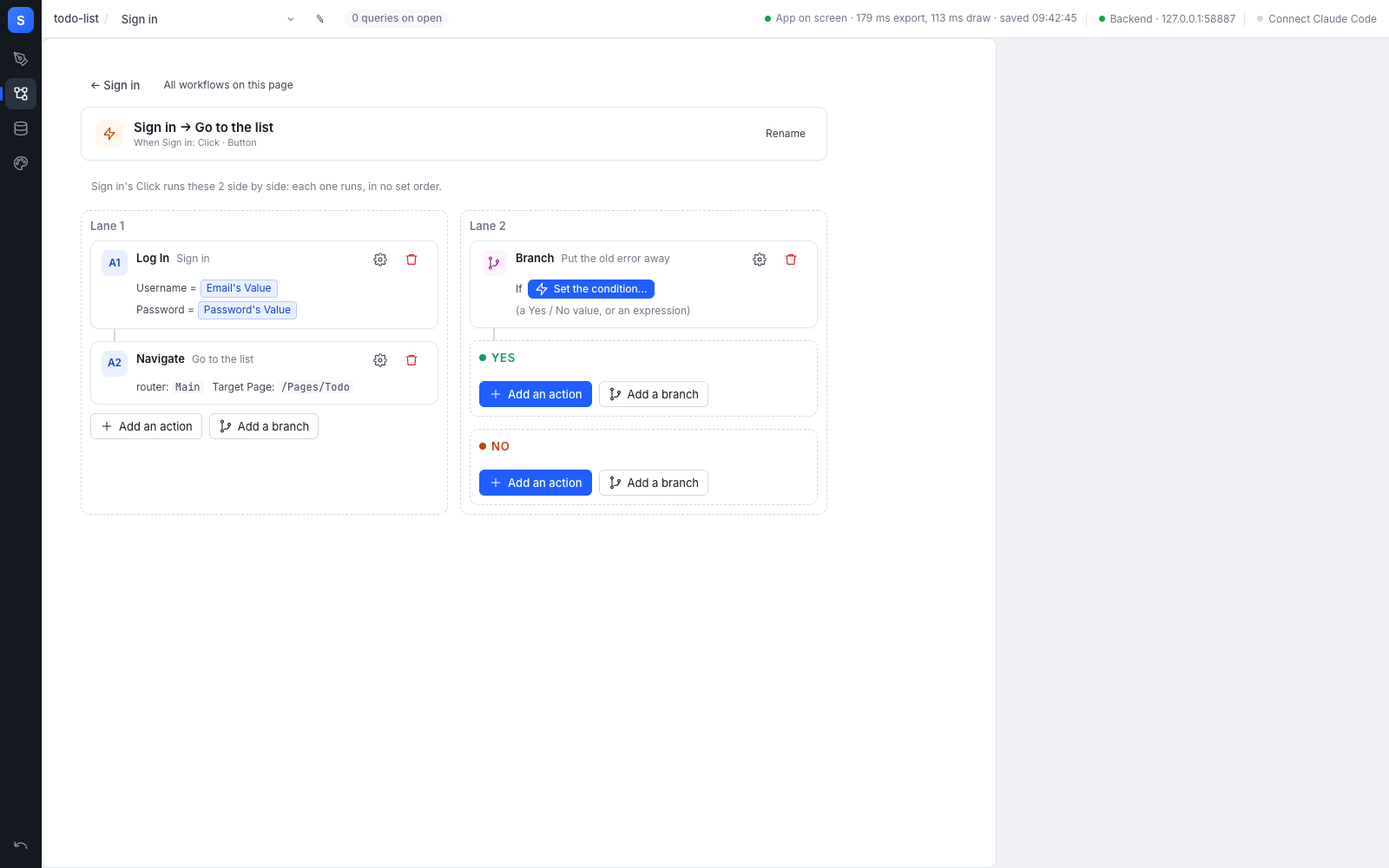
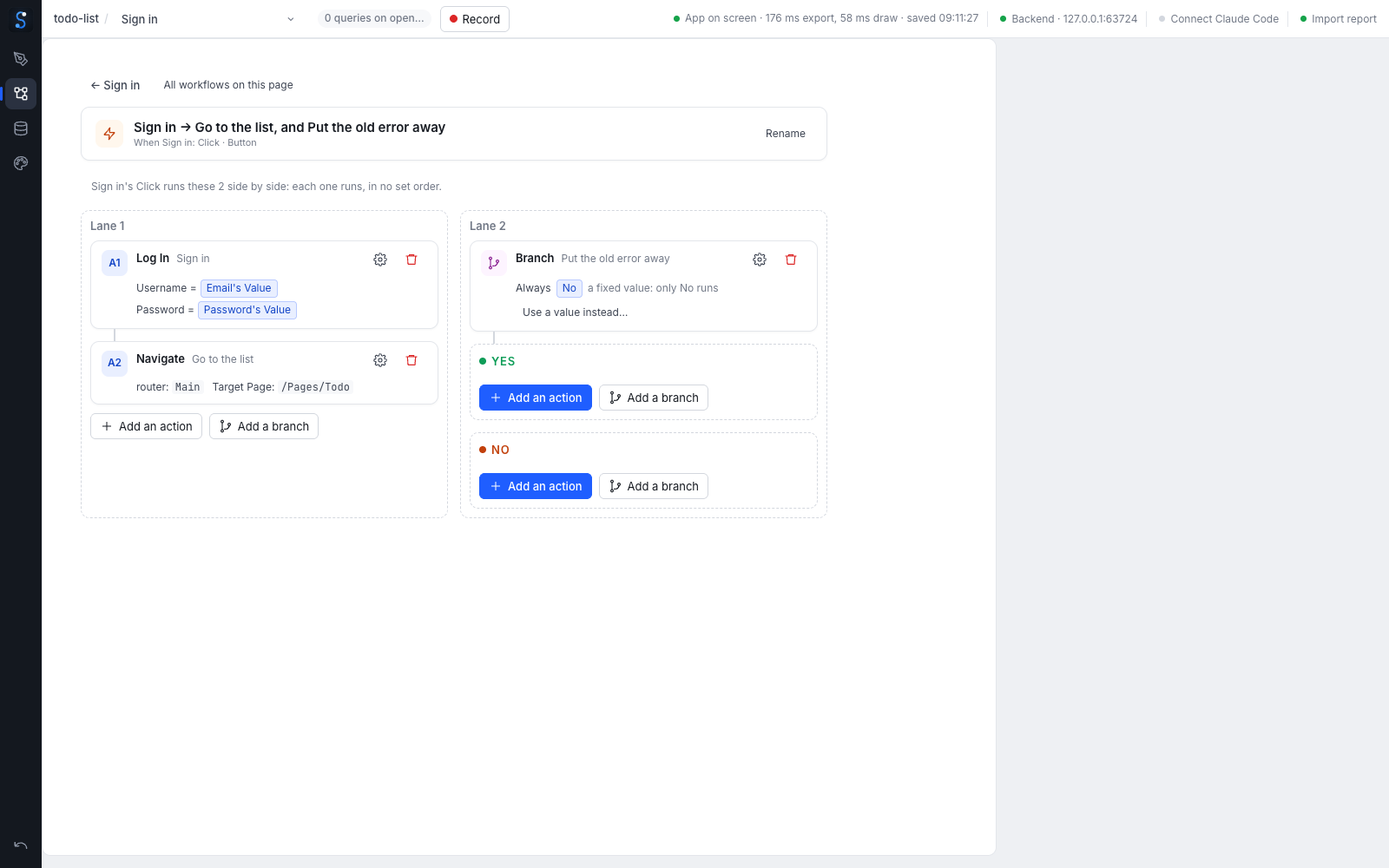
s18: Publish says a page's own address needs the host's index.html fallback; a card reads every lane; Required is drift
- Publish (STU-008): a path-routed app (every template, every import) is told that a link to a page or a reload on one
  needs the host to answer unknown addresses with index.html; measured both ways in check:publish
- Workflow cards (STU-022-024): name and hover read every lane; a Condition fixed at Yes / No says so instead of
  "Set the condition..."; a component port without words is spelled out ("Pick list"); a branch label is a test only
  when it asks ("Signed in?")
- Data (M6): a Required the project and the development database disagree on is a drift card, both ways to agree

Gates 2026-10-23: editor 172/172 (mutant 168/172), data 78/78, app 46/46, publish 34/34, timeline 43/43,
pagedata 33/33, reusable 12/12, rules 20/20, vendor PASS.

diff --git a/editor/studio.html b/editor/studio.html
@@ -395,6 +395,7 @@
   .bolt.oncanvas { position: absolute; pointer-events: auto; z-index: 2; box-shadow: 0 1px 2px rgba(0,0,0,.18); }
   .bolttip { position: fixed; z-index: 1000; max-width: 420px; background: var(--ink); color: var(--panel); font-size: 12px; line-height: 1.45; padding: 6px 9px; border-radius: var(--r); box-shadow: 0 4px 14px rgba(0,0,0,.2); pointer-events: none; }
   .bolttip b { font-weight: 600; margin-right: 6px; }
+  .bolttip .tiplane { padding-left: 10px; }
   #workflow.card { grid-template-columns: 1fr; }
   #workflow.card > aside { display: none; }
   .cardnav { display: flex; align-items: center; gap: 8px; margin-bottom: 10px; }
@@ -1341,8 +1342,9 @@ function portsOf(node, plug) {
       const comp = store.readComponent(key).files;
       const ioType = plug === 'input' ? 'Component Inputs' : 'Component Outputs';
       // an input with no name of its own reads as what it feeds inside ("Why it did not work" · Text), not its port name cut off
+      // any other port with no name of its own is its port name spelled out ("When Pick list", not "When pickList")
       const inner = (ioId, port) => { if (plug !== 'input') return null; const w = comp.connections.connections.filter((c) => c.fromId === ioId && c.fromProperty === port); const t = w.length === 1 && comp.nodes.nodes.find((x) => x.id === w[0].toId); const tp = t && libPorts(t.type).find((q) => q.name === w[0].toProperty); return tp ? { of: t.label || typeName(t.type), label: tp.displayName || tp.name, type: tp.type } : null; };
-      for (const n of comp.nodes.nodes) if (n.type === ioType) for (const p of n.ports || []) if (!seen.has(p.name)) { const i = p.displayName ? null : inner(n.id, p.name); seen.set(p.name, { name: p.name, label: p.displayName || i?.label || p.name, type: tname(i?.type ?? p.type), raw: i ? { type: i.type } : undefined, signal: tname(p.type) === 'signal', group: 'Component', of: i?.of }); }
+      for (const n of comp.nodes.nodes) if (n.type === ioType) for (const p of n.ports || []) if (!seen.has(p.name)) { const i = p.displayName ? null : inner(n.id, p.name); seen.set(p.name, { name: p.name, label: p.displayName || i?.label || portWords(p.name), type: tname(i?.type ?? p.type), raw: i ? { type: i.type } : undefined, signal: tname(p.type) === 'signal', group: 'Component', of: i?.of }); }
     } catch { /* unknown component */ }
   }
   for (const p of libPorts(node.type)) if (p.plug === plug || p.plug === 'input/output') if (!seen.has(p.name)) seen.set(p.name, { name: p.name, label: p.displayName && p.displayName !== p.name ? p.displayName : portWords(p.name), type: tname(p.type), signal: tname(p.type) === 'signal', raw: p });
@@ -3144,7 +3146,9 @@ function stepWords(s, short = false) {
   if (s.refresh) return `Refresh ${itemById(s.id)?.name ?? labelOf(s.id)}`;
   if (s.branches) {
     const side = (list) => list.map((x) => stepWords(x)).join(' → ') || 'nothing';
-    const test = node.label ? `If ${node.label.replace(/\?$/, '')}` : 'Branch';
+    // a label that asks ("Signed in?") is the test; any other ("Only when …", "Put the old error away") is the branch's own name
+    const fixed = typeof p.condition === 'boolean' && !conns.some((c) => c.toId === s.id && c.toProperty === 'condition');
+    const test = node.label ? (/\?$/.test(node.label) ? `If ${node.label.replace(/\?$/, '')}` : node.label) : fixed ? `Always ${p.condition ? 'Yes' : 'No'}` : 'Branch';
     return short ? test : `${test}: Yes → ${side(s.branches.yes)}; No → ${side(s.branches.no)}`;
   }
   const more = !short && s.siblings.length ? ` (+${s.siblings.length} more)` : '';
@@ -3155,14 +3159,18 @@ function stepWords(s, short = false) {
   if (words && p.collectionName) return `${words} (${p.collectionName})${more}`;
   return (words || typeName(node.type)) + more;
 }
-const eventSummary = (ev) => chain(ev.node, ev.port).map((s) => stepWords(s)).join(' → ');
+/** The card's steps in words, one line per lane: a card that runs lanes side by side (STU-024) is all of them, not its first. */
+const laneSummaries = (ev) => (lanesOf(ev) ?? [chain(ev.node, ev.port)]).map((steps) => steps.map((s) => stepWords(s)).join(' → '));
+const eventSummary = (ev) => { const l = laneSummaries(ev); return l.length > 1 ? l.map((w, i) => `Lane ${i + 1}: ${w}`).join(' · ') : l[0]; };
 /* ---- STU-023: a card is named by what it does, from its steps, until someone names it. The name is kept on the element
    the event starts at (metadata.cardNames, by port), so it follows the element and comes back with Undo; nothing else reads it ---- */
 const givenName = (ev) => byId[ev.node]?.metadata?.cardNames?.[ev.port] || '';
 function stepsName(ev) {
-  const words = chain(ev.node, ev.port).map((s) => stepWords(s, true));
-  if (!words.length) return 'No steps yet';
-  return (words.length > 3 ? [words[0], words[1], '…', words.at(-1)] : words).join(' → ');
+  const lanes = (lanesOf(ev) ?? [chain(ev.node, ev.port)]).map((steps) => steps.map((s) => stepWords(s, true))).filter((w) => w.length);
+  if (!lanes.length) return 'No steps yet';
+  const one = (words) => (words.length > 3 ? [words[0], words[1], '…', words.at(-1)] : words).join(' → ');
+  if (lanes.length === 1) return one(lanes[0]);
+  return lanes.length === 2 ? `${one(lanes[0])}, and ${one(lanes[1])}` : `${one(lanes[0])}, and ${lanes.length - 1} more side by side`;
 }
 const cardName = (ev) => givenName(ev) || stepsName(ev);
 /** An empty name gives the card back to its steps. */
@@ -3184,9 +3192,10 @@ function cardTitle(ev) {
   return input;
 }
 function hideBoltTip() { document.getElementById('bolttip')?.remove(); }
+const laneLines = (ev) => { const l = laneSummaries(ev); return l.length > 1 ? l.map((w, i) => h('div', { class: 'tiplane' }, `Lane ${i + 1}: ${w}`)) : [l[0]]; };
 function showBoltTip(anchor, evs) {
   hideBoltTip();
-  const tip = h('div', { class: 'bolttip', id: 'bolttip', role: 'tooltip' }, ...evs.map((ev) => h('div', {}, h('b', {}, portLabel(byId[ev.node], 'output', ev.port)), givenName(ev) ? `${givenName(ev)}: ` : '', eventSummary(ev))));
+  const tip = h('div', { class: 'bolttip', id: 'bolttip', role: 'tooltip' }, ...evs.map((ev) => h('div', {}, h('b', {}, portLabel(byId[ev.node], 'output', ev.port)), givenName(ev) ? `${givenName(ev)}: ` : '', ...laneLines(ev))));
   document.body.append(tip);
   const r = anchor.getBoundingClientRect();
   tip.style.left = `${Math.max(8, Math.min(r.left, innerWidth - tip.offsetWidth - 8))}px`;
@@ -3429,9 +3438,12 @@ function stepCard(s, n) {
   if (isCond) {
     const cw = wiredIn.condition; const src = cw && byId[cw.fromId];
     const pCond = { name: 'condition', displayName: 'Condition' };
-    const line = h('div', { class: 'cond-line' }, 'If ');
+    const fixed = !src && typeof params.condition === 'boolean';
+    const line = h('div', { class: 'cond-line' }, fixed ? 'Always ' : 'If ');
     if (src && isComposed(src)) line.append(h('span', { class: 'chip expr', style: 'cursor:pointer', onclick: (e) => openComposer(e, node, pCond, src) }, icon('fx'), composedPreview(src)), h('button', { class: 'quiet tiny', onclick: (e) => openComposer(e, node, pCond, src) }, 'Edit'));
     else if (src) line.append(sourceChip(cw.fromId, cw.fromProperty), h('button', { class: 'quiet tiny', onclick: () => edits(pageKey, [{ edit: 'disconnect', component: pageKey, from: { node: cw.fromId, port: cw.fromProperty }, to: { node: node.id, port: 'condition' } }]) }, icon('x')));
+    // a condition saved as a fixed Yes or No (the todo app's "Put the old error away" is a constant false, read for its value): said, not offered as empty
+    else if (fixed) line.append(h('span', { class: 'chip' }, params.condition ? 'Yes' : 'No'), h('span', { style: 'color:var(--muted)' }, `a fixed value: only ${params.condition ? 'Yes' : 'No'} runs`), h('button', { class: 'quiet tiny', onclick: (e) => sourceMenu(e, node, pCond) }, 'Use a value instead…'));
     else line.append(h('button', { class: 'primary tiny', onclick: (e) => sourceMenu(e, node, pCond) }, icon('bolt'), 'Set the condition…'), h('span', { style: 'color:var(--muted)' }, '(a Yes / No value, or an expression)'));
     card.append(line);
   } else card.append(h('div', { class: 'lines' }, ...(lines.length ? lines : [h('span', { style: 'color:var(--muted)' }, 'No settings yet')]), s.siblings.length ? h('span', { style: 'color:var(--muted)' }, `+ ${s.siblings.length} more wired from the same signal`) : null));
@@ -3683,6 +3695,18 @@ function syncCards(main, t) {
   for (const r of d.retyped) card(`${r.name} is ${r.project.type}${r.project.targetClass ? ` → ${r.project.targetClass}` : ''} in the project and ${r.backend.type}${r.backend.targetClass ? ` → ${r.backend.targetClass}` : ''} on the development database.`,
     h('button', { onclick: async () => { if (!confirm(`Change ${r.name} on the development database to ${r.project.type}? Values that don’t convert are lost.`)) return; await onBackend(`${r.name} was not changed`, () => schemaAct({ action: 'changeColumnType', table: t.name, column: r.name, type: r.project.type })); renderData(); } }, `Make the backend’s ${r.project.type}`),
     h('button', { onclick: () => { editProject((list) => { const cols = list.find((x) => x.name === t.name).columns; cols[cols.findIndex((x) => x.name === r.name)] = projectColumn(r.backend); }); renderData(); } }, `Make the project’s ${r.backend.type}`));
+  // Required, which the backend's own diff never compares: made required on the backend only when no row is without a value
+  const word = (on) => (on ? 'required' : 'optional');
+  for (const r of d.required) card(`${r.name} is ${word(r.project)} in the project and ${word(r.backend)} on the development database.`,
+    h('button', { 'data-act': 'required-backend', onclick: async (e) => {
+      if (r.project) {
+        const empty = await emptyCount(t.name, r.name);
+        if (empty) return e.target.closest('.card').querySelector('p').replaceChildren(`${F.recordsWord(empty)} on the development database ${empty === 1 ? 'has' : 'have'} nothing in ${r.name}, so it can’t be made required there yet. Give each one a value first, or make the project’s optional. `,
+          h('button', { class: 'quiet tiny', 'data-act': 'show-empty', onclick: () => { env = 'development'; dataSub = 'app'; Object.assign(app, { type: t.name, skip: 0, q: '', order: '-createdAt', picked: new Set(), missing: r.name }); renderData(); } }, 'Show them in App data'));
+      }
+      await onBackend(`${r.name} was not made ${word(r.project)}`, () => schemaAct({ action: 'setRequired', table: t.name, columns: { [r.name]: r.project } })); renderData();
+    } }, `Make it ${word(r.project)} on the backend`),
+    h('button', { 'data-act': 'required-project', onclick: () => { editProject((list) => { const c = list.find((x) => x.name === t.name).columns.find((x) => x.name === r.name); if (r.backend) c.required = true; else delete c.required; }); renderData(); } }, `Make the project’s ${word(r.backend)}`));
 }
 async function whoCanReach(card, type) {
   const say = (...kids) => { card.lastChild.replaceWith(h('div', {}, ...kids)); };

diff --git a/docs/SCOPE.md b/docs/SCOPE.md
@@ -32,7 +32,7 @@ app is yours, it sits in git, and Claude Code can work on it alongside you throu
 |---|---|---|
 | Design tab — palette, element tree, click / drag-reorder / resize on the real app, property editor, red spacing guide | works | `check:editor` |
 | Workflow tab — events, steps as the signal chain, add / delete a step, a Yes/No branch, the expression composer (chips, JavaScript, or both) | works | `check:editor` |
-| Data tab (M6) — Data types in NodeGX's words on the running backend and the project together, drift named with both ways to agree; Privacy through the backend map; App data paged, searched, edited by kind, exported and imported; option sets; the Map; a development and a live database, Deploy to live, Copy rows; a field or a type renamed with what reads it in the app, and on live as a rename; Required on a stored field, on development and live; the people with an account (`_User`) in App data | works (2026-10-22, s15; STU-062 s16; Required and User s17) | `check:data` 74/74, `check:editor` 170/170 |
+| Data tab (M6) — Data types in NodeGX's words on the running backend and the project together, drift named with both ways to agree (a type, a field, a Required); Privacy through the backend map; App data paged, searched, edited by kind, exported and imported; option sets; the Map; a development and a live database, Deploy to live, Copy rows; a field or a type renamed with what reads it in the app, and on live as a rename; Required on a stored field, on development and live; the people with an account (`_User`) in App data | works (2026-10-22, s15; STU-062 s16; Required and User s17; Required as drift s18) | `check:data` 78/78, `check:editor` 172/172 |
 | Live with outside edits — a file changed by Claude Code (MCP), VS Code or `git pull` is drawn without a reload; a clash with Studio's own edit asks | works (2026-10-19) | `check:editor` 46/46 |
 | Styles — global styles as NodeGX variants | works | `check:editor` |
 | Bubble importer — pages, elements, styles, workflows, expressions, option sets, reusables, custom states, data types, privacy rules → `nodegx.security.json`, backend workflows → cloud functions, Data-tab rows | spike, measured on a real 17-page app (0 validation errors); its searches arrive as page data (STU-013), a reusable's while that copy is shown (STU-014); its workflow conditions test only when the workflow runs (STU-013-NAVLOOP) | `check:import` 50/50 |
@@ -40,10 +40,10 @@ app is yours, it sits in git, and Claude Code can work on it alongside you throu
 | Desktop app — Electron window, a welcome screen (recent projects, NodeGX's templates, Import an app), File → Open Recent, a smoke mode; packaged for macOS as a DMG and a zip, signed ad hoc (STU-007's first cut) | first cut (2026-10-19), package (2026-10-20, s14) | `check:app` 39/39, 40/40 on the package, `smoke` |
 | The project's backend — started (or adopted) on open, stopped on close, shown in the status bar; a template that needs one gets one; Data's "Start a backend" for an app with none | works (2026-10-19) | `check:app` 34/34 |
 | Claude Code — "Connect Claude Code" in the header (and File) registers the NodeGX MCP server for the folder with the NodeGX editor's own writer and shows the command that starts a session there | works (2026-10-19) | `check:editor` 56/56 |
-| Publish — File → Publish… and the header's Publish write the app as a static site with NodeGX's own deploy (npm's production engine), into a new folder or the one this app went to last; its cloud functions go to its backend through NodeGX's `deploy_cloud_functions`; the window says where the site is, what it talks to, and that a backend on 127.0.0.1 works on this computer only | works (2026-10-20, s14) | `check:publish` 27/27, `check:app` 39/39 |
+| Publish — File → Publish… and the header's Publish write the app as a static site with NodeGX's own deploy (npm's production engine), into a new folder or the one this app went to last; its cloud functions go to its backend through NodeGX's `deploy_cloud_functions`; the window says where the site is, what it talks to, and that a backend on 127.0.0.1 works on this computer only, and that a page's own address needs the host's `index.html` fallback (s18) | works (2026-10-20, s14) | `check:publish` 34/34, `check:app` 46/46 |
 | Runs without a NodeGX checkout — the kit from npm at pinned versions (`@nodegx/preview` 0.2.3, `@nodegx/mcp` 0.2.2) and `vendor/` at one NodeGX commit; `NODEGX_REPO` for working on the kit and Studio together | works (2026-10-20, s13) | `check:vendor`, every gate on the vendored kit |
 | Page data — a search is a named item on the page (Design → Page data), read by any element as dynamic data; made or reused through one form, never twice; readers, last run and "N queries on open" counted off the app's own requests; a workflow refreshes an item | works (2026-10-19), R7 ruled | `check:pagedata` 26/26, `check:editor` 71/71 |
-| Workflows on their element (M3) — a ⚡ on every element with a workflow, on the canvas and in the element list; its steps in order on hover; its card full screen from the badge, Back (or Esc) to the element; a card named by its steps until someone renames it; the page's cards under their elements, filtered by what they change or what starts them, searched over their steps; one card per event — imported A / not A splits are one branch, overlapping ones lanes side by side | STU-020, STU-021 (2026-10-19, s8), STU-023, STU-022, STU-024 (2026-10-20, s9) work | `check:editor` 170/170, `check:import` 79/79 |
+| Workflows on their element (M3) — a ⚡ on every element with a workflow, on the canvas and in the element list; its steps in order on hover; its card full screen from the badge, Back (or Esc) to the element; a card named by its steps until someone renames it; the page's cards under their elements, filtered by what they change or what starts them, searched over their steps; one card per event — imported A / not A splits are one branch, overlapping ones lanes side by side | STU-020, STU-021 (2026-10-19, s8), STU-023, STU-022, STU-024 (2026-10-20, s9) work | `check:editor` 172/172, `check:import` 79/79 |
 
 ## The alpha (0.2) — the line
 
@@ -577,9 +577,18 @@ in `app/main.cjs`, and `lib/publish.mjs` does the work:
   deployed, a second publish finds all four `unchanged`, and one called over HTTP answers from its own Request node
   (*Unauthenticated requests not accepted*, 500) where an unknown name gets 404. `check:app` 39/39 clicks Publish in
   the real window (with its dialogs answered by the gate) and reads the site, the warning, and the remembered folder.
-- **Not in it:** a site under a sub-path (P123-STU015-BASEURL); a path-routed app's deep link needs the server to
-  answer every path with `index.html` (opening its root works on any server, which is all the gate's server does; most static hosts have a
-  setting for the fallback, and Publish does not say so yet); hosting anywhere but this machine (R10); Windows and Linux not run.
+- **Not in it:** a site under a sub-path (P123-STU015-BASEURL); ~~Publish saying that a path-routed app's deep link
+  needs the host's `index.html` fallback~~ (s18, below); hosting anywhere but this machine (R10); Windows and Linux not run.
+- **s18 (2026-10-23): a page's own address.** `settings.navigationPathType` is `"path"` in every NodeGX template and in
+  every app the importer writes, so a page has an address of its own (`/sign-in`), which reaches the server; unset or
+  `"hash"` keeps it after a `#`, which never does. For a path-routed app the publish window now says: *"Its pages have
+  addresses of their own (such as /sign-in). Opening the site’s first address works on any web server; for a link to a
+  page, or a reload on one, the server must answer every address it has no file for with index.html. Most hosts have a
+  setting for that (often called a single-page app’s fallback or rewrite)."* (`routingOf` in `lib/publish.mjs`; the
+  example is the first Page with a `urlPath`). The deploy's `index.html` loads its scripts from `%baseUrl%`, the root,
+  so the fallback is all a deep link needs. Measured, `check:publish` **34/34**: the plain static server answers
+  `/sign-in` with 404; one that answers other addresses with `index.html` opens the sign-in page there; a project
+  without the setting reads as hash. `check:app` **46/46** reads the line in the real window's report.
 
 Order: STU-002 first (it is what makes "local" feel alive, and STU-005 depends on it), then STU-003–005, then
 STU-006–007 when someone outside the team needs to run it, and STU-008 so that what they build can leave the machine.
@@ -919,7 +928,8 @@ elements in the order the element list draws them (logic after), each card by it
   Command, so "Changes Task" reads Add task → Write history → its writes. This over-counts on purpose: a write
   inside the component counts whichever of its inputs the card fires.
 - **Not read:** a write made in JavaScript (a Function node's own `fetch`) changes nothing as far as the filter
-  knows. Port names a component gives without words show as they are ("When pickList").
+  knows. ~~Port names a component gives without words show as they are ("When pickList")~~: spelled out since s18
+  ("When Pick list"), the words the node library's own ports already got (`portWords`).
 
 Gate (`check:editor`, on the todo template's Todo page, 62 cards): "Changes Task" lists exactly the 15 cards whose
 signal reaches a Task write, and "Changes todoSelected" exactly the 11 that set it, both read off the files and
@@ -943,11 +953,20 @@ event, from both ends:
   A1, A2 … B1; where the step said "+ 1 more wired from the same signal" the second lane was hidden. The todo
   template's Sign in click is such a card: Log In → Go to the list, and beside it the branch that puts the old
   error away. A branch shows its own name when it has one. Inside a lane, Yes and No stack.
-- **Not built:** a card's name and hover still read the first lane ("Sign in (+1 more) → Go to the list"). R4
+- ~~A card's name and hover still read the first lane~~ (s18): named from every lane (*"Sign in → Go to the list, and
+  Put the old error away"*; three or more: the first, "and 2 more side by side"), and the hover says each lane on a
+  line of its own ("Lane 1: …", "Lane 2: …", as the card heads them). A branch's label reads as its test only when it
+  asks ("Signed in?" → "If Signed in"); any other is its name as written, so the importer's "Only when …" no longer
+  reads "If Only when …", and a branch with no label fixed at Yes or No reads "Always No". **Not built:** R4
   (rejoin, STU-025) is untouched. More than two opposite-looking workflows: the first opposite pair merges, the
   rest stay lanes.
-- **Seen, not fixed:** "Put the old error away" is a Condition whose condition is the constant `false`, used only
-  for its value; the branch card says "Set the condition…" as though it were empty.
+- ~~Seen, not fixed: a constant-`false` Condition's card says "Set the condition…"~~ (s18): a Condition saved as a
+  fixed Yes or No with nothing wired reads *"Always No — a fixed value: only No runs"*, with *Use a value instead…*.
+
+Gate (s18, `check:editor` **172/172**, 2 new and 2 rewritten): the Sign in ⚡'s hover reads both lanes in the order the
+card draws them, with no "+1 more"; the card's name is both lanes'; the second lane's branch (the file's `condition:
+false`, nothing wired into it) reads "Always No"; Todo's Header row reads "Pick list" (Header's Component Outputs
+declares `pickList` with no display name). Mutant (all three reverted): 168/172, exactly those four fail.
 
 Gates: `check:import` (a fixture page: logged in / not logged in on one button → one Condition from the click,
 other page on Yes and third on No, labelled with "?"; logged in beside no condition → two wires, a Condition and a
@@ -1420,6 +1439,14 @@ App data's User, 3 on Required reaching live), `check:editor` 170/170, `check:ap
   field to users is still Claude Code's or the backend manager's).
 - **Found on the way:** clicking a type in App data always shows every row now (the field drawer's filter stayed on
   after App data was left and opened again).
+
+**s18 (2026-10-23): Required is drift.** `driftOf` compared types only; a field of one type that is required in the
+project and not on the development database (or the other way) is now a drift card of its own, with both ways to agree:
+*Make it required on the backend* first counts the rows with nothing in it and, when there are any, says how many and
+offers *Show them in App data* instead of asking the backend; *Make the project's optional / required* takes the
+backend's. `check:data` **78/78** (4 new: the pure `driftOf`, then on the running backend, title made optional from
+outside: named, refused while one row is empty, made required once it is gone, and the project taking the backend's
+Required either way).
 
 - **Not in it:** the files manager (`/admin/files`), auth providers and email templates, backups and restore from
   Studio, backend workflows and triggers (they belong on the Workflow tab, drawn on the map; the kit has them all), and

diff --git a/docs/NEXT-SESSION-PROMPT.md b/docs/NEXT-SESSION-PROMPT.md
@@ -1,53 +1,63 @@
 Continue NodeGX Studio (~/vscode_projects/nodegx-studio, public, GPL-3.0; plan of record: docs/SCOPE.md). Edit in
-this repo, not OpenNoodl. Gates run on Node 22 (`~/.nvm/versions/node/v22.22.0/bin`). Read on 2026-10-22 (s17), on the
-working tree that became the s17 commit: `check:data` **74/74**, `check:editor` 170/170, `check:app` 45/45,
-`check:publish` 31/31. From s16 (files they test unchanged since): `check:pagedata` 33/33, `check:reusable` 12/12,
-`check:timeline` 43/43, `check:rules` 20/20, `check:vendor` PASS (884 files). Not rerun since s13: `check:phrases`
-(85/85), `check:dictionary`, `check:import` (79/79). 🔴 `check:app`, `check:editor` and `check:data` all load studio.html:
-run them after any studio.html change; `check:publish` uses lib/live.mjs. One heavy gate at a time (`nice -n 19`,
-~/vscode_projects/OpenNoodl-worktrees/HEAVY.lock with mkdir, remove it only if YOU made it), and wait for another
-session's jest/vitest first. 🔴 `pgrep -f "jest|vitest"` is the wrong wait: other sessions leave zsh wait-loops whose
-command text contains "jest", and it waits forever. Match node processes only:
+this repo, not OpenNoodl. Gates run on Node 22 (`~/.nvm/versions/node/v22.22.0/bin`). Read on 2026-10-23 (s18), on the
+working tree that became the s18 commit: `check:editor` **172/172**, `check:data` **78/78**, `check:app` **46/46**,
+`check:publish` **34/34**, `check:timeline` 43/43, `check:pagedata` 33/33, `check:reusable` 12/12, `check:rules` 20/20,
+`check:vendor` PASS (884 files). Not rerun since s13: `check:phrases` (85/85), `check:dictionary`, `check:import`
+(79/79); nothing they test changed. 🔴 `check:app`, `check:editor`, `check:data` and `check:timeline` load studio.html:
+run them after any studio.html change; `check:publish` uses lib/publish.mjs and lib/live.mjs. One heavy gate at a time
+(`nice -n 19`, ~/vscode_projects/OpenNoodl-worktrees/HEAVY.lock with mkdir, remove it only if YOU made it), and wait for
+another session's jest/vitest first (s18 waited ~30 min in all on OpenNoodl's conformance jest). 🔴 `pgrep -f "jest|vitest"`
+is the wrong wait: other sessions leave zsh wait-loops whose command text contains "jest". Match node processes only:
 `ps -axo comm=,args= | awk '$1 ~ /(^|\/)node$/ && /jest|vitest/'`. 🔴 npm eats a gate's own flags:
-`npm run check:data -- --shots`. `--shots` rewrites every docs/look/stu-06x-*.png: `git checkout --` the ones you did
-not mean to change. Three untracked docs/look/s2-composer-slot.png, s2-composer-then-menu.png, s2-panel-group.png
-predate s10 and are not yours to commit. 🔴 In a gate, a scripted click leaves the focus in the app's frame once the
-gate has typed there, so `el.blur()` fires nothing: dispatch `new Event('blur')` (s17 lost a run to it).
+`npm run check:data -- --shots`. `--shots` rewrites every picture that gate takes (`docs/look/stu-06x-*.png` for data,
+`s2-*.png` for editor): `git checkout --` the ones you did not mean to change. Three untracked
+docs/look/s2-composer-slot.png, s2-composer-then-menu.png, s2-panel-group.png predate s10 and are not yours to commit
+(back them up before an editor `--shots` run, which writes `s2-*`). 🔴 In a gate, a scripted click leaves the focus in the
+app's frame once the gate has typed there, so `el.blur()` fires nothing: dispatch `new Event('blur')`. Keep each gate's
+output in a file (s18 lost a run's detail by piping it through `grep -v ok`).
 
-**s17 finished M6's two leftovers** (SCOPE.md "Done (s17)"; the s16 handoff was current, unlike s14's):
-- *Required on a stored field.* The field drawer's Required tick now shows for a field with values; ticked on, it
-  counts development's rows with nothing in it (`$exists: false` = the backend's own NULL count), Save waits, and
-  *Show them in App data* filters App data to those rows. `setRequired` runs last in Save. Deploy to live (and
-  Publish's schema step) carries Required too, because the backend's diff ignores it (`lib/live.mjs`
-  `requiredChanges`); live rows without a value hold it back, said under "Not on live yet".
-- *`_User` in App data.* A **User** row heads App data (development or live), through the backend's Users API
-  (`/admin/users`): paged, searched, the account fields and the app's own, a cell edited, New person with a password
-  (signs in), ticked people deleted. No Export / Import (the `_User` export's handling of password hashes is unread),
-  no sort, no group changes, no `_User` in Data types.
+**s18 took the handoff's buildable items 3, 4 and a piece of 1** (SCOPE.md, each under its milestone, marked s18):
+- *Publish's deep links* (STU-008). Every NodeGX template and every imported app is `navigationPathType: "path"`, so
+  nearly every published app has pages at their own addresses. The publish window now says a link to a page, or a
+  reload on one, needs the host to answer every unknown address with index.html (`routingOf` in lib/publish.mjs, with
+  the first Page's `urlPath` as the example). Measured both ways in `check:publish`: a plain static server 404s
+  `/sign-in`, one with the fallback opens it.
+- *The workflow card leftovers* (STU-022–024). A card's name and its ⚡ hover read every lane ("Sign in → Go to the
+  list, and Put the old error away"; "Lane 1: … / Lane 2: …"). A Condition saved as a fixed Yes / No with nothing wired
+  reads "Always No — a fixed value: only No runs", not "Set the condition…". A component port without words is spelled
+  out ("When Pick list"). Not asked for, done because the lanes' name made it plain: a branch label reads as a test
+  ("If …") only when it ends in "?"; otherwise it is the branch's name as written, so imported "Only when X" no longer
+  reads "If Only when X". Mutant (all three reverted): 168/172, exactly the four new or rewritten checks fail.
+- *Required is drift* (M6). `driftOf` now names a field required in the project and not on the development database,
+  or the other way, as a card with both ways to agree; making it required on the backend counts the empty rows first and
+  offers *Show them in App data* instead of asking the backend to refuse.
+- Where the s17 handoff stood: accurate. Item 2 still blocked (npm read 2026-10-23: `@nodegx/preview` 0.2.4,
+  `@nodegx/mcp` 0.2.5, unchanged since 2026-10-20; neither carries BACKENDPUBLIC's fix, OpenNoodl 490361c22).
 
-Where M6 and the alpha stand (SCOPE "The alpha (0.2) — the line"): items 1 Publish, 3 Import, 6 Data (STU-060–065,
-and now 062) are done. 2: signed with the Developer ID and gated 46/46 on the package; notarising waits on the five
-secrets being visible to the repository; Windows and Linux built and smoke-opened in CI. 4: waits on NodeGX, read
-2026-10-22: `@nodegx/preview` 0.2.4, `@nodegx/mcp` 0.2.5 on npm, neither with BACKENDPUBLIC's fix (OpenNoodl 490361c22);
-Studio still pins preview 0.2.3 and mcp 0.2.2. 5: main is ahead of origin/main (bc5fb85) by the backend map, M6, s16 and s17.
+Where the alpha stands (SCOPE "The alpha (0.2) — the line"): 1 Publish, 3 Import, 6 Data done. 2 signed with the
+Developer ID; notarising waits on the five secrets; Windows / Linux built and smoke-opened in CI. 4 waits on a NodeGX
+npm release with BACKENDPUBLIC; Studio still pins preview 0.2.3, mcp 0.2.2. 5 main is ahead of origin/main (bc5fb85)
+by the backend map, M6, s16, s17 and s18.
 
 Next buildable, in order:
-1. M6 is done but for the map's "a signed-in learner" (a NodeGX `@nodegx/backend-map` word, not Studio's). Small
-   follow-ups if wanted: `_User` in Data types (add a field to users from Studio: the backend's `addColumn` on
-   `_User` works, measured), Export of people once the backend's `_User` export is read for password hashes, and
-   drift that names a Required the project and the backend disagree on (`driftOf` compares types only).
-2. When NodeGX publishes a release with BACKENDPUBLIC: bump the pins, `npm run vendor`, every gate.
-3. Publish's open edges (SCOPE "Done (STU-008)"): say that a path-routed app's deep links need the host's index.html
-   fallback; a site under a sub-path waits on P123-STU015-BASEURL.
-4. Timeline gaps (SCOPE "Not built" under STU-031..033) and s9's leftovers: a constant-`false` branch says "Set the
-   condition…"; a card's name and hover read only its first lane; port names without words show raw ("When pickList").
+1. When NodeGX publishes a release with BACKENDPUBLIC: bump the pins, `npm run vendor`, every gate. Check npm first
+   (`npm view @nodegx/preview versions`).
+2. M6's remaining small follow-ups, if wanted: `_User` in Data types (add a field to users from Studio: the backend's
+   `addColumn` on `_User` works, measured s17); Export of people once the backend's `_User` export is read for password
+   hashes. The map's "a signed-in learner" is NodeGX's word (`@nodegx/backend-map`), not Studio's.
+3. Timeline gaps (SCOPE M4 "Not built"): a recording that crosses pages gives card rows only for the page shown at Stop;
+   two overlapping runs of one card told apart only by start; a record's fields named by their ports ("prop-title").
+4. The branch "Seen, not fixed" left in STU-023: a branch made in Studio has no label, so a card whose first step is one
+   reads "Branch"; the composed condition ("If 1 > 2") would say more.
 
 Waiting on Richard (ask in plain words):
-- Whether main can be pushed (four commits ahead), then whether the package workflow should run once by hand.
+- Whether main can be pushed (now five sessions ahead), then whether the package workflow should run once by hand.
 - The five notarisation secrets made visible to this repository.
-- Richard's look at docs/look/stu-061-required.png and stu-063-users.png (s17). His look at docs/look/stu-062-rename.png, and one question it raises: the todo app reads fields in JavaScript, so a
-  common name has hundreds of maybes (`RoutineCheck.date`: 206). Is a tick per line right, or should Studio offer
-  "tick every line in nodes that also name this type"? Studio cannot know from the code alone, so it asks.
+- His look at the s18 card (docs/look/s2-workflow-card.png: the Sign in click, both lanes in its name, Lane 2's
+  "Always No") and the branch-label rule (a label is a test only when it asks). His look at s17's
+  docs/look/stu-061-required.png and stu-063-users.png, and at stu-062-rename.png with its question: the todo app reads
+  fields in JavaScript, so a common name has hundreds of maybes (`RoutineCheck.date`: 206). Is a tick per line right, or
+  should Studio offer "tick every line in nodes that also name this type"?
 - Rulings R4, R5, R6, R10 (R10's leaning: a Linux VM over SSH, NodeGX's phase 89, not started).
 - Unchanged from s13: how the one-run Record feels on his app; his second sitting on data; his real app export
   (STU-044's 22 missing operators, STU-053's unread keys, STU-024's 16 split elements). Filed and open in NodeGX's
